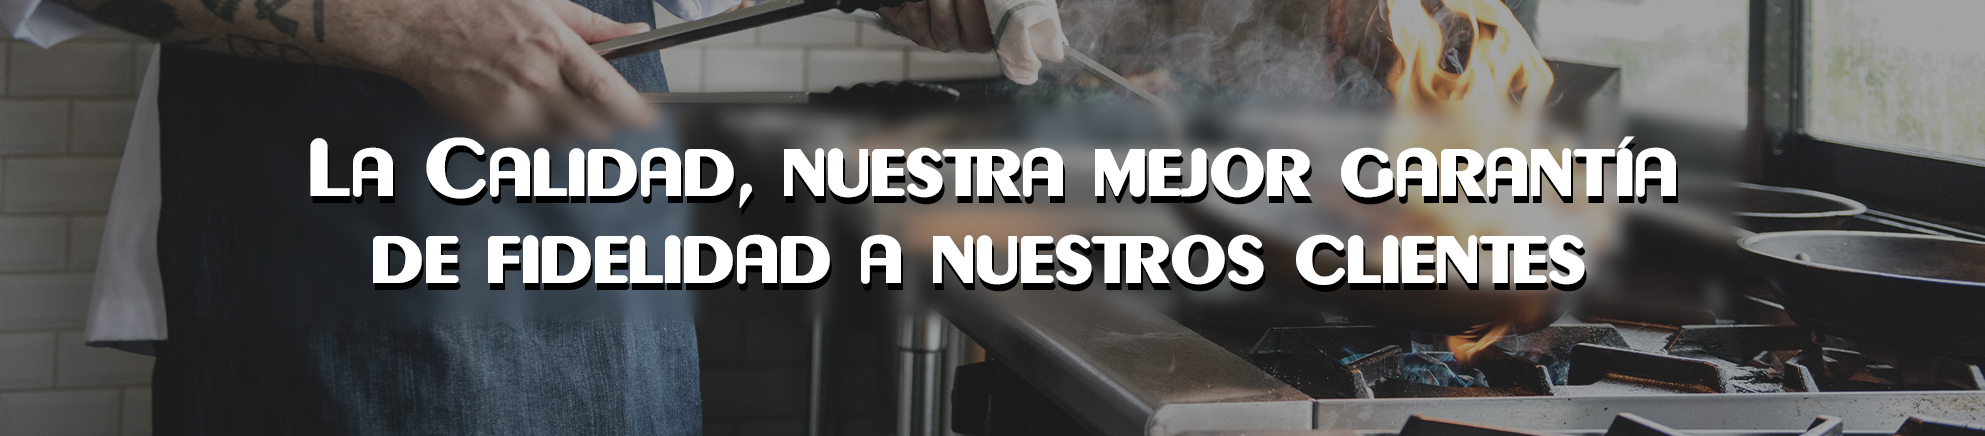
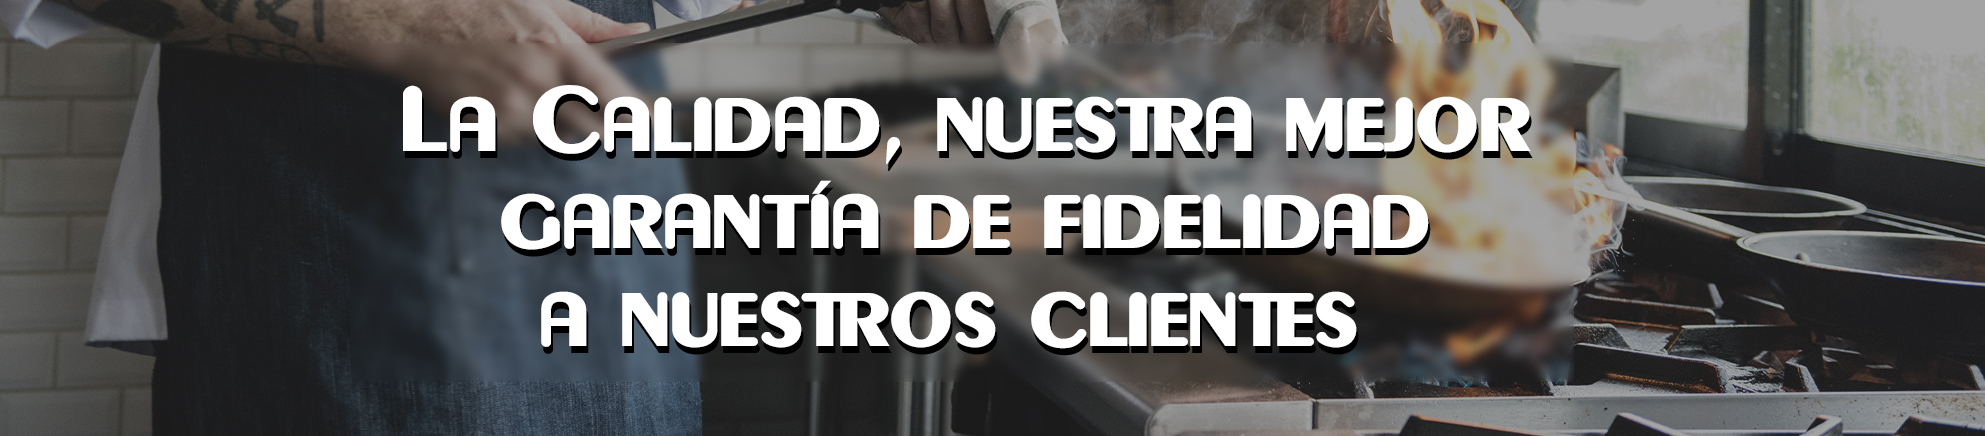
.

diff --git a/arrocerasdf.html b/arrocerasdf.html
@@ -94,7 +94,7 @@
     </section>
     </header>
     <section>
-      <img class="img-fluid" style="width: 100%;  margin-bottom: 3rem;" alt="doblefuerte" src="./images/doble.jpg">
+      <img class="img-fluid" style="width: 100%;  margin-bottom: 3rem;" alt="doblefuerte" src="./images/df.jpg">
     </section>
   <main class="container">
     <h1 class="text-center fw-bold">Arroceras Doble Fuerte</h1>
